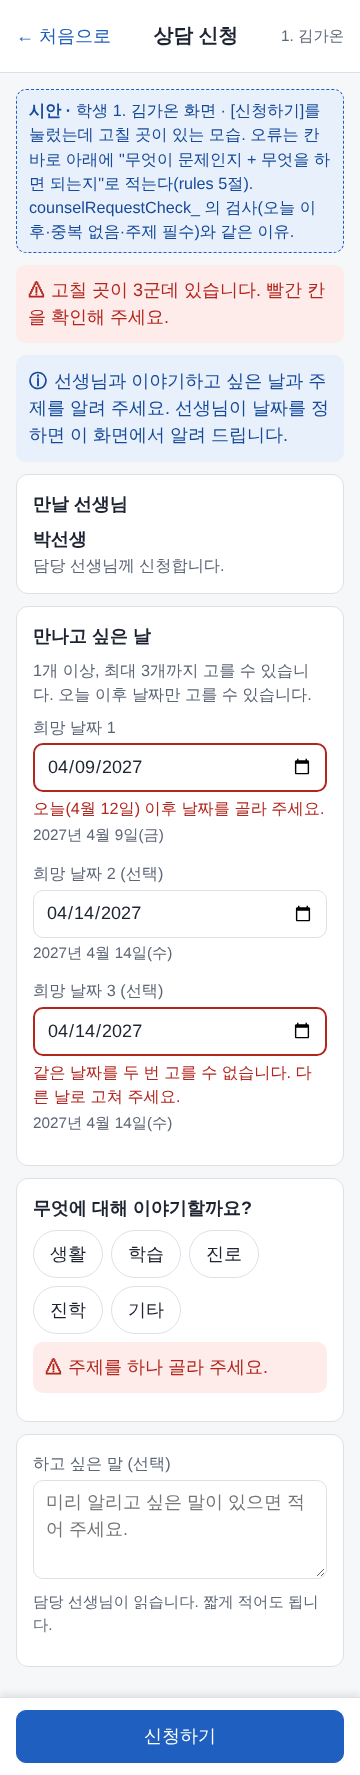
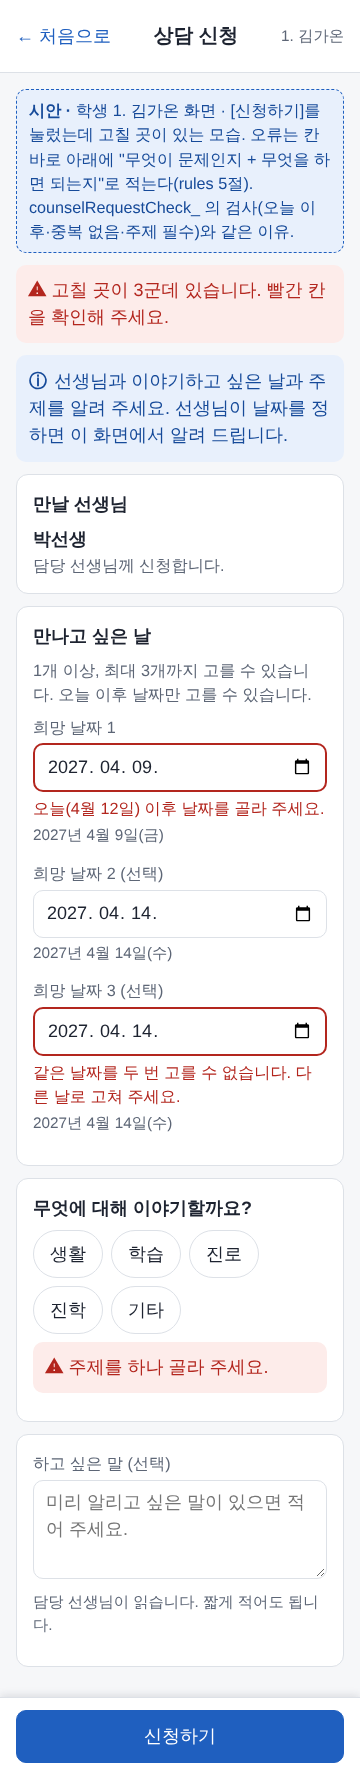
미리보기를 한국어 로캘로 찍기(날짜 칸이 2027. 04. 14. 모양) + D11 사진 다시 찍음
Claude-Session: https://claude.ai/code/session_01By8Yaa8urwsSoHVw3FXUZa

diff --git a/design/preview/components.js b/design/preview/components.js
@@ -72,9 +72,8 @@ async function main() {
   fs.mkdirSync(OUT, { recursive: true });
   const file = path.join(OUT, 'components.html');
   fs.writeFileSync(file, build());
-  const { chromium } = require('playwright');
-  const browser = await chromium.launch();
-  const page = await browser.newPage({ viewport: { width: 360, height: 800 }, deviceScaleFactor: 2 });
+  const browser = await require('./browser.js').launchKo();
+  const page = await browser.newPage({ viewport: { width: 360, height: 800 }, deviceScaleFactor: 2, locale: 'ko-KR' });
   const errors = [];
   page.on('pageerror', (e) => errors.push(e.message));
   await page.goto('file://' + file);

diff --git a/design/preview/browser.js b/design/preview/browser.js
@@ -1,0 +1,7 @@
+/** 미리보기용 브라우저를 한국 휴대폰처럼 띄운다. 날짜 칸이 "mm/dd/yyyy"가 아니라 "2027. 04. 14."로 보이려면
+ *  Playwright locale 만으로는 모자라고 브라우저 언어(--lang=ko)와 환경 로캘(LANG·LC_ALL)이 함께 한국어여야 한다. */
+const { chromium } = require('playwright');
+function launchKo() {
+  return chromium.launch({ args: ['--lang=ko'], env: Object.assign({}, process.env, { LANG: 'ko_KR.UTF-8', LANGUAGE: 'ko', LC_ALL: 'ko_KR.UTF-8' }) });
+}
+module.exports = { launchKo };

diff --git a/design/preview/stage2.js b/design/preview/stage2.js
@@ -25,8 +25,7 @@ async function main(OUT = OUT2, screens) {
   fs.mkdirSync(OUT, { recursive: true });
   const file = path.join(OUT, 'index.html');
   fs.writeFileSync(file, build(screens));
-  const { chromium } = require('playwright');
-  const browser = await chromium.launch();
+  const browser = await require('./browser.js').launchKo();
   const probe = await browser.newPage();
   await probe.goto('file://' + file);
   const ids = await probe.evaluate(() => ORDER.map((k) => ({ id: k, sheet: SCREENS[k].sheet, label: SCREENS[k].label })));

diff --git a/docs/design/stage6-counsel-request-example.md b/docs/design/stage6-counsel-request-example.md
@@ -90,4 +90,4 @@
 - 이 시안은 **그림일 뿐**입니다. 서버·권한·시트 구조(Schema)는 건드리지 않았고, `counsel_requests` 탭은 아직 만들지 않았습니다(시트 구조는 선생님 승인 뒤).
 - 학생 홈에서 이 화면으로 들어오는 카드, 담당교사의 처리 화면(확정·반려·완료), 상담일지·합의 사항 보기 화면은 그리지 않았습니다(틀 쓰는 법 예시에 필요하지 않음).
 - "학생이 쉬운 글"은 총괄이 요청한 방향대로 맞췄지만 실제 학생(고등학생)에게 읽혀 본 것은 아닙니다. 시험 계정으로 학생이 읽고 모르는 낱말을 알려 주면 고칩니다.
-- 날짜 입력 칸의 모양(mm/dd/yyyy)은 미리보기 브라우저 때문이고, 실제 휴대폰에서는 기기 달력이 뜹니다.
+- 날짜 칸의 모양은 기기(브라우저) 것입니다. 미리보기는 한국어 로캘(`design/preview/browser.js`)로 찍어 "2027. 04. 14."처럼 한국 휴대폰과 같은 모양으로 나옵니다.
